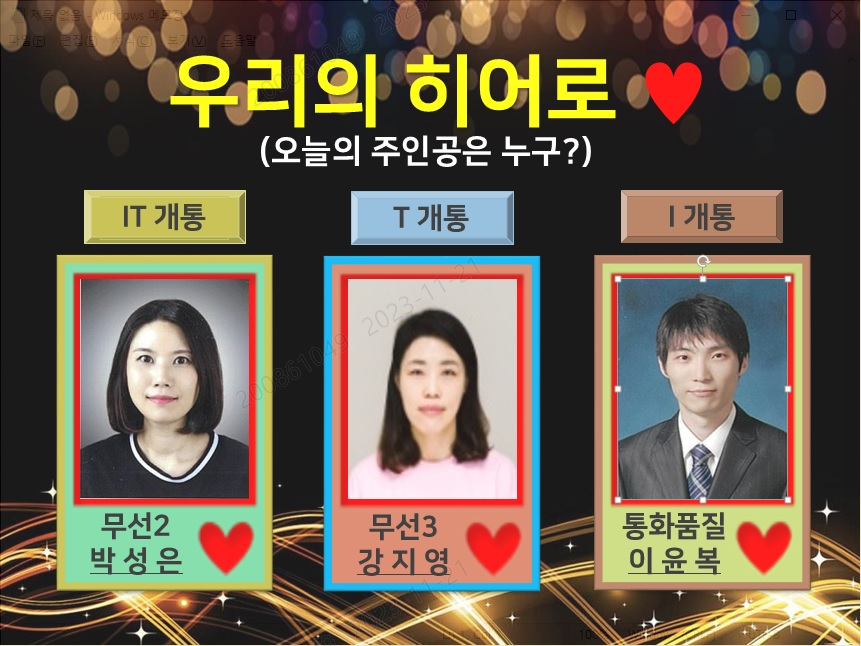
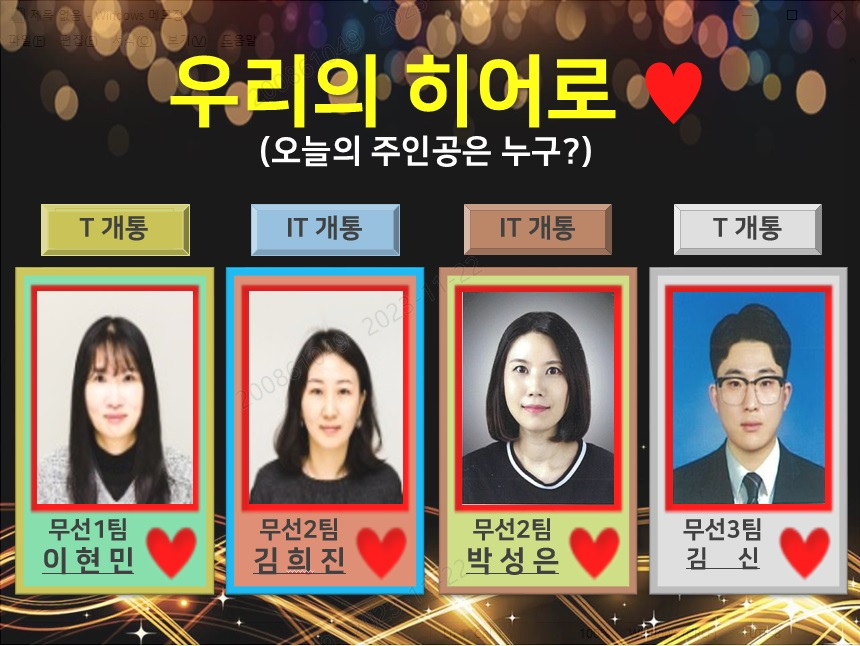
dd

diff --git a/html/board.html b/html/board.html
@@ -47,7 +47,8 @@ var morning_count = morning.length;
 
 //클래스 work
 var work_url ="../imgfolder/근무/"
-var work =['세일즈 전광판_센터실적.jpg','세일즈 전광판_팀실적.jpg','세일즈 전광판_전일개통인원-1.jpg'];
+var work =['세일즈 전광판_센터실적.jpg','세일즈 전광판_팀실적.jpg','세일즈 전광판_전일개통인원-1.jpg',
+'세일즈 전광판_전일개통인원-2.jpg'];
 var work_count = work.length;
 
 //클래스 lunch
